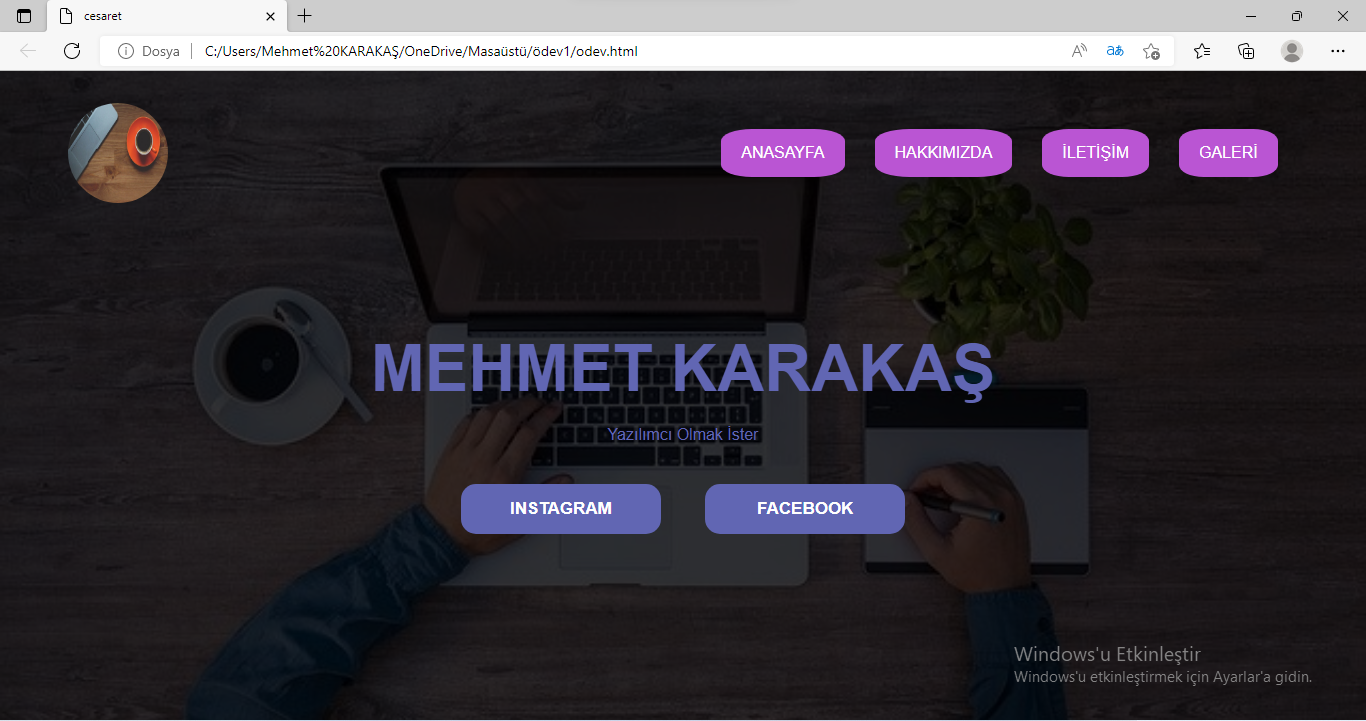
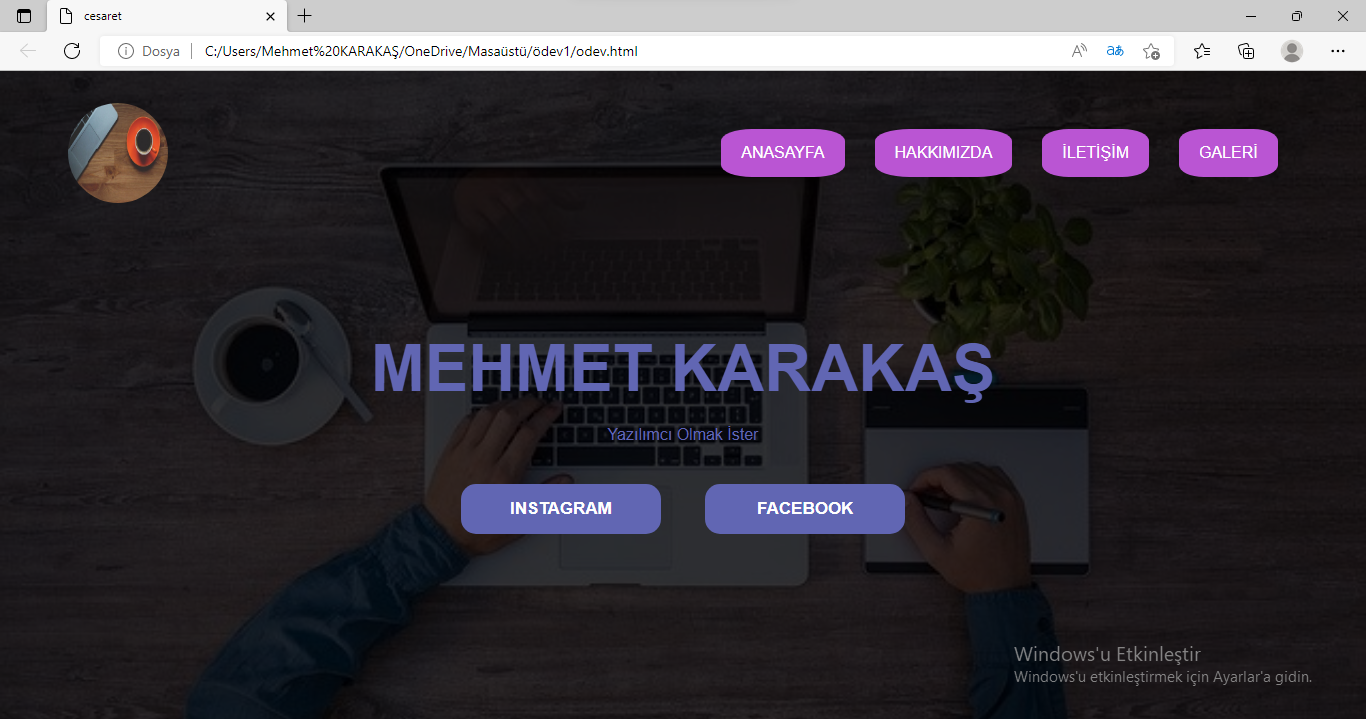
ekran resmi oluşturuldu

diff --git a/README.md b/README.md
@@ -1,4 +1,4 @@
 <h2>ödev1</h2>
 
 <h2>ekran görüntüsü eklendi</h2>
-![](ekran.png)
+<img src="./ekran.png">
